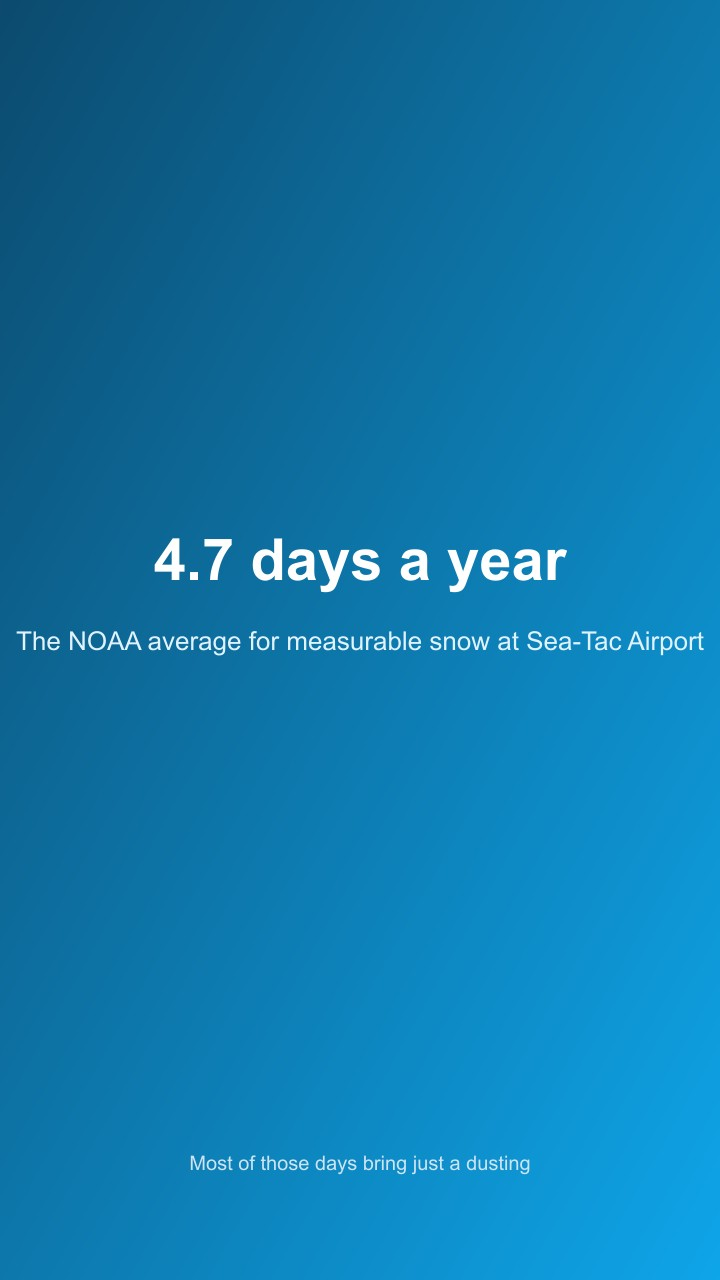
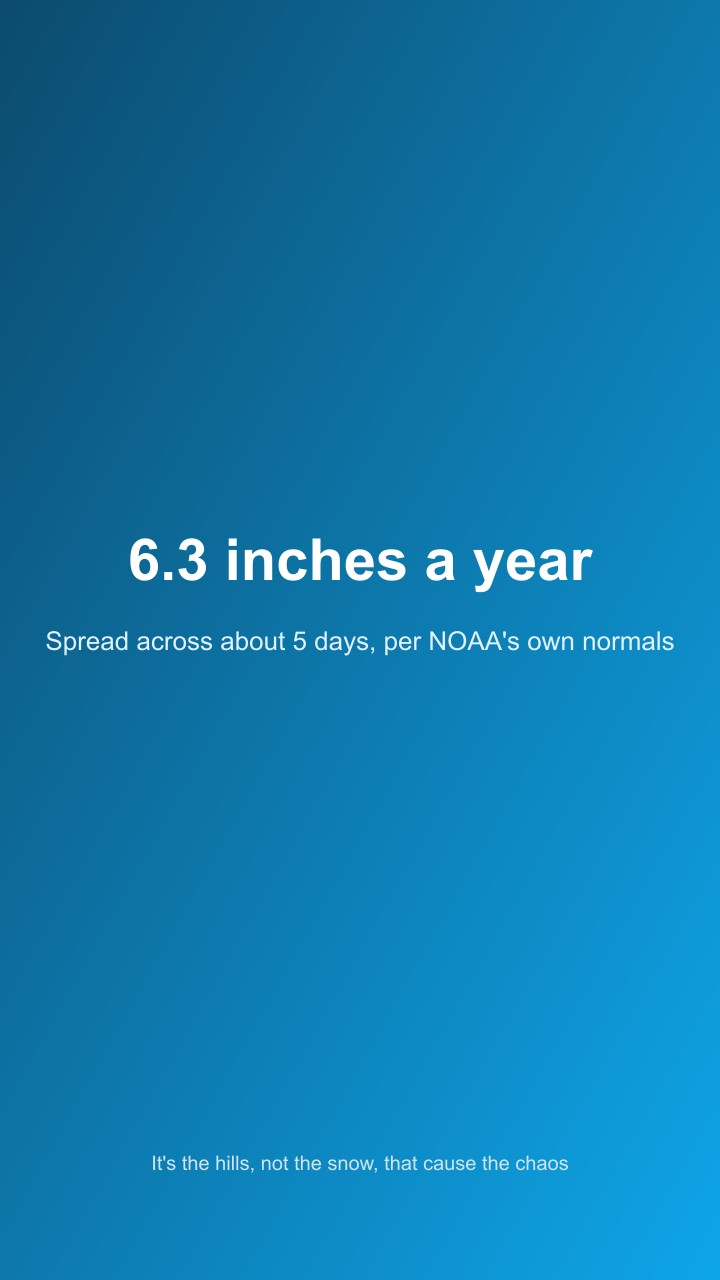
Rewrite does-it-snow-in-seattle after top-10 competitor comparison
Top result includes an actual Quora thread whose own title gives away
the real angle: "so many hills." Adds the hills/plow-fleet/refreezing
explanation for why 2-3 inches shuts the city down (the question
competitors weren't answering), Snoqualmie Pass's 400+ inch contrast,
the December 1996 storm, and resolves the 6.3 vs 8.2 inch NOAA table
conflict by leading with the directly-cited NCEI figure. Cites Cliff
Mass's blog and SDOT's own snow response plan.

Claude-Session: https://claude.ai/code/session_0137wNLphAPmSsEruyDiu6i5

Changed region(s): [[0.0306, 0.4062, 0.9778, 0.5312], [0.2139, 0.9062, 0.7944, 0.9375]]

diff --git a/lib/web-stories.ts b/lib/web-stories.ts
@@ -3098,9 +3098,9 @@ export const webStories: WebStory[] = [
   {
     slug: "does-it-snow-in-seattle",
     postSlug: "does-it-snow-in-seattle",
-    title: "Does It Snow in Seattle? The Real Numbers, and Why It's So Patchy",
+    title: "Does It Snow in Seattle? Yes, and the Hills Are Why It Shuts the City Down",
     description:
-      "Does it snow in Seattle? Yes, about 4.7 days a year on average, and one neighborhood can get buried while another stays dry. Here is why, and the real records.",
+      "Does it snow in Seattle? About 6.3 inches a year. The real question is why the hills turn a couple of inches into a city-wide shutdown. Real records inside.",
     pages: [
       {
         image: SE + "story-1.jpg",
@@ -3111,10 +3111,10 @@ export const webStories: WebStory[] = [
       },
       {
         image: SE + "story-2.jpg",
-        alt: "A blue card reading 4.7 days a year, the NOAA average for measurable snow at Sea-Tac Airport",
+        alt: "A blue card reading about 6.3 inches a year, the NOAA average snowfall at Sea-Tac Airport",
         kicker: "The real odds",
-        heading: "4.7 days a year",
-        text: "Most of those days bring just a dusting.",
+        heading: "6.3 inches a year",
+        text: "Spread across about 5 days, most of it a dusting.",
       },
       {
         image: SE + "story-3.jpg",
